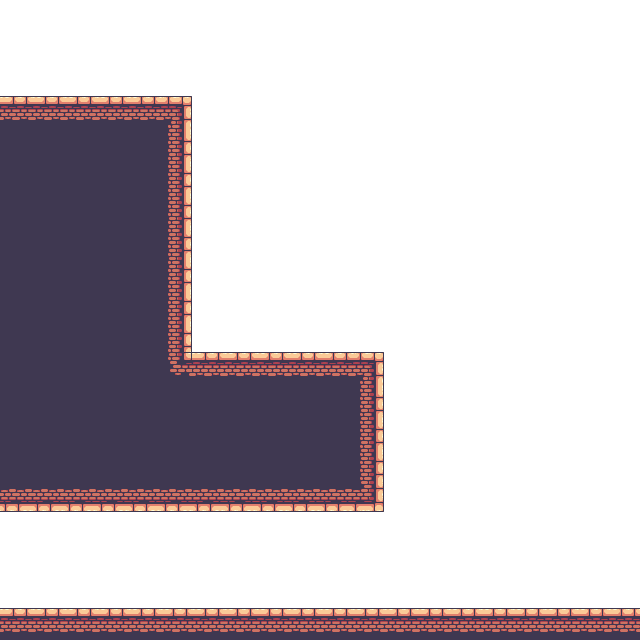
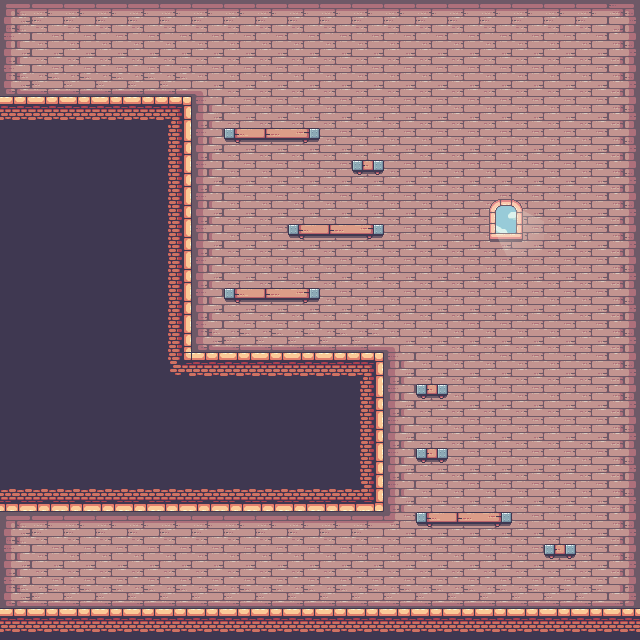
Sprite不再强制要求执行created，并引入生命周期的功能

diff --git a/src/stages/Test.js b/src/stages/Test.js
@@ -27,15 +27,37 @@ export function test() {
 
             // 创建阻挡物
             let blocks = []
-            blocks.push(new Sprite(block(8, 0, 96, 5, 1)))
-            blocks.push(new Sprite(block(9, 160, 96, 1, 1)))
-            blocks.push(new Sprite(block(6, 160, 128, 1, 7)))
-            blocks.push(new Sprite(block(8, 192, 352, 5, 1)))
-            blocks.push(new Sprite(block(9, 352, 352, 1, 1)))
-            blocks.push(new Sprite(block(6, 352, 352, 1, 4)))
-            blocks.push(new Sprite(block(3, 352, 480, 1, 1)))
-            blocks.push(new Sprite(block(2, 0, 480, 11, 1)))
-            blocks.push(new Sprite(block(8, 0, 608, 20, 1)))
+            const blocksData = [
+                [8, 0, 3, 5, 1],
+                [9, 5, 3, 1, 1],
+                [6, 5, 4, 1, 7],
+                [8, 6, 11, 5, 1],
+                [9, 11, 11, 1, 1],
+                [6, 11, 11, 1, 4],
+                [3, 11, 15, 1, 1],
+                [2, 0, 15, 11, 1],
+                [8, 0, 19, 20, 1]
+            ]
+            blocksData.forEach(data => {
+                blocks.push(new Sprite(block('block', data)))
+            })
+
+
+            // 创建平台
+            const flatsData = [
+                [7, 4, 3],
+                [11, 5, 1],
+                [9, 7, 3],
+                [7, 9, 3],
+                [13, 12, 1],
+                [13, 14, 1],
+                [13, 16, 3],
+                [17, 17, 1]
+            ]
+            
+            flatsData.forEach(data => {
+                blocks.push(new Sprite(block('flat', data)))
+            })
 
             // 创建玩家
             const newPlayer = new Sprite(player())

diff --git a/src/sprites/Block.js b/src/sprites/Block.js
@@ -1,17 +1,33 @@
-export function block(type, x, y, column, row) {
-    return {
-        config: {
-            id: 'block' + Math.random(),
-            x,
-            y,
-            layer: 1,
-            width: column * 32,
-            height: row * 32
-        },
-        data: {
-            type
-        },
-        created() {
+export function block(type, options) {
+    if (type === 'block') {
+        return {
+            config: {
+                id: 'block' + Math.random(),
+                x: options[1] * 32,
+                y: options[2] * 32,
+                layer: 1,
+                width: options[3] * 32,
+                height: options[4] * 32
+            },
+            data: {
+                type,
+                collieType: options[0]
+            }
+        }
+    } else {
+        return {
+            config: {
+                id: 'flat' + Math.random(),
+                x: options[0] * 32,
+                y: options[1] * 32,
+                layer: 1,
+                width: options[2] * 32,
+                height: 10
+            },
+            data: {
+                type,
+                collieType: 8
+            }
         }
     }
 }

diff --git a/src/sprites/Player.js b/src/sprites/Player.js
@@ -54,7 +54,7 @@ export function player() {
                 if (this.jumpStatus > 0 || this.attackStatus > 0 || this.hitting) { return }
                 this.jumpStatus = 1
                 this.graphics.image(this.id, 'jump')
-                this.vSpeed = 12
+                this.vSpeed = 8
             },
             // 掉落
             fall() {
@@ -155,8 +155,8 @@ export function player() {
     function jumpMove() {
         if (this.jumpStatus === 0 || this.jumpStatus === 3) { return }
         this.y -= this.vSpeed
-        if (this.vSpeed >= -4) {
-            this.vSpeed--
+        if (this.vSpeed >= -3.5) {
+            this.vSpeed -= 0.5
             if (this.vSpeed === 0 && this.jumpStatus === 1) {
                 this.fall()
             }

diff --git a/src/events/Collie.js b/src/events/Collie.js
@@ -1,7 +1,7 @@
 export function collie(player, blocks) {
     for (const key in blocks) {
         const block = blocks[key]
-        switch (block.type) {
+        switch (block.collieType) {
             case 8:
                 if (this.geometry.above(player, block) && this.geometry.distance('y', player, block) < -player.vSpeed) {
                     player.collie = 8

diff --git a/modules/Sprite/Sprite.js b/modules/Sprite/Sprite.js
@@ -97,8 +97,8 @@ export class Sprite {
         this.event = event(this)
         this.userEvent = userEvent(this)
 
-        // 创建实例
-        options.created.call(this)
+        // 执行生命周期函数
+        options.created && options.created.call(this)
 
         // 添加到游戏单位中
         Game.unit.add(this)

diff --git a/index.html b/index.html
@@ -11,15 +11,10 @@
             font-family: pixel;
             src: url('src/assets/font/Pixel.ttf');
         }
-        
-        body{
-            text-align: center;
-        }
 
         canvas {
             margin-top: 10vh;
             height: 75vh;
-            background-color: gray;
         }
     </style>
 </head>
